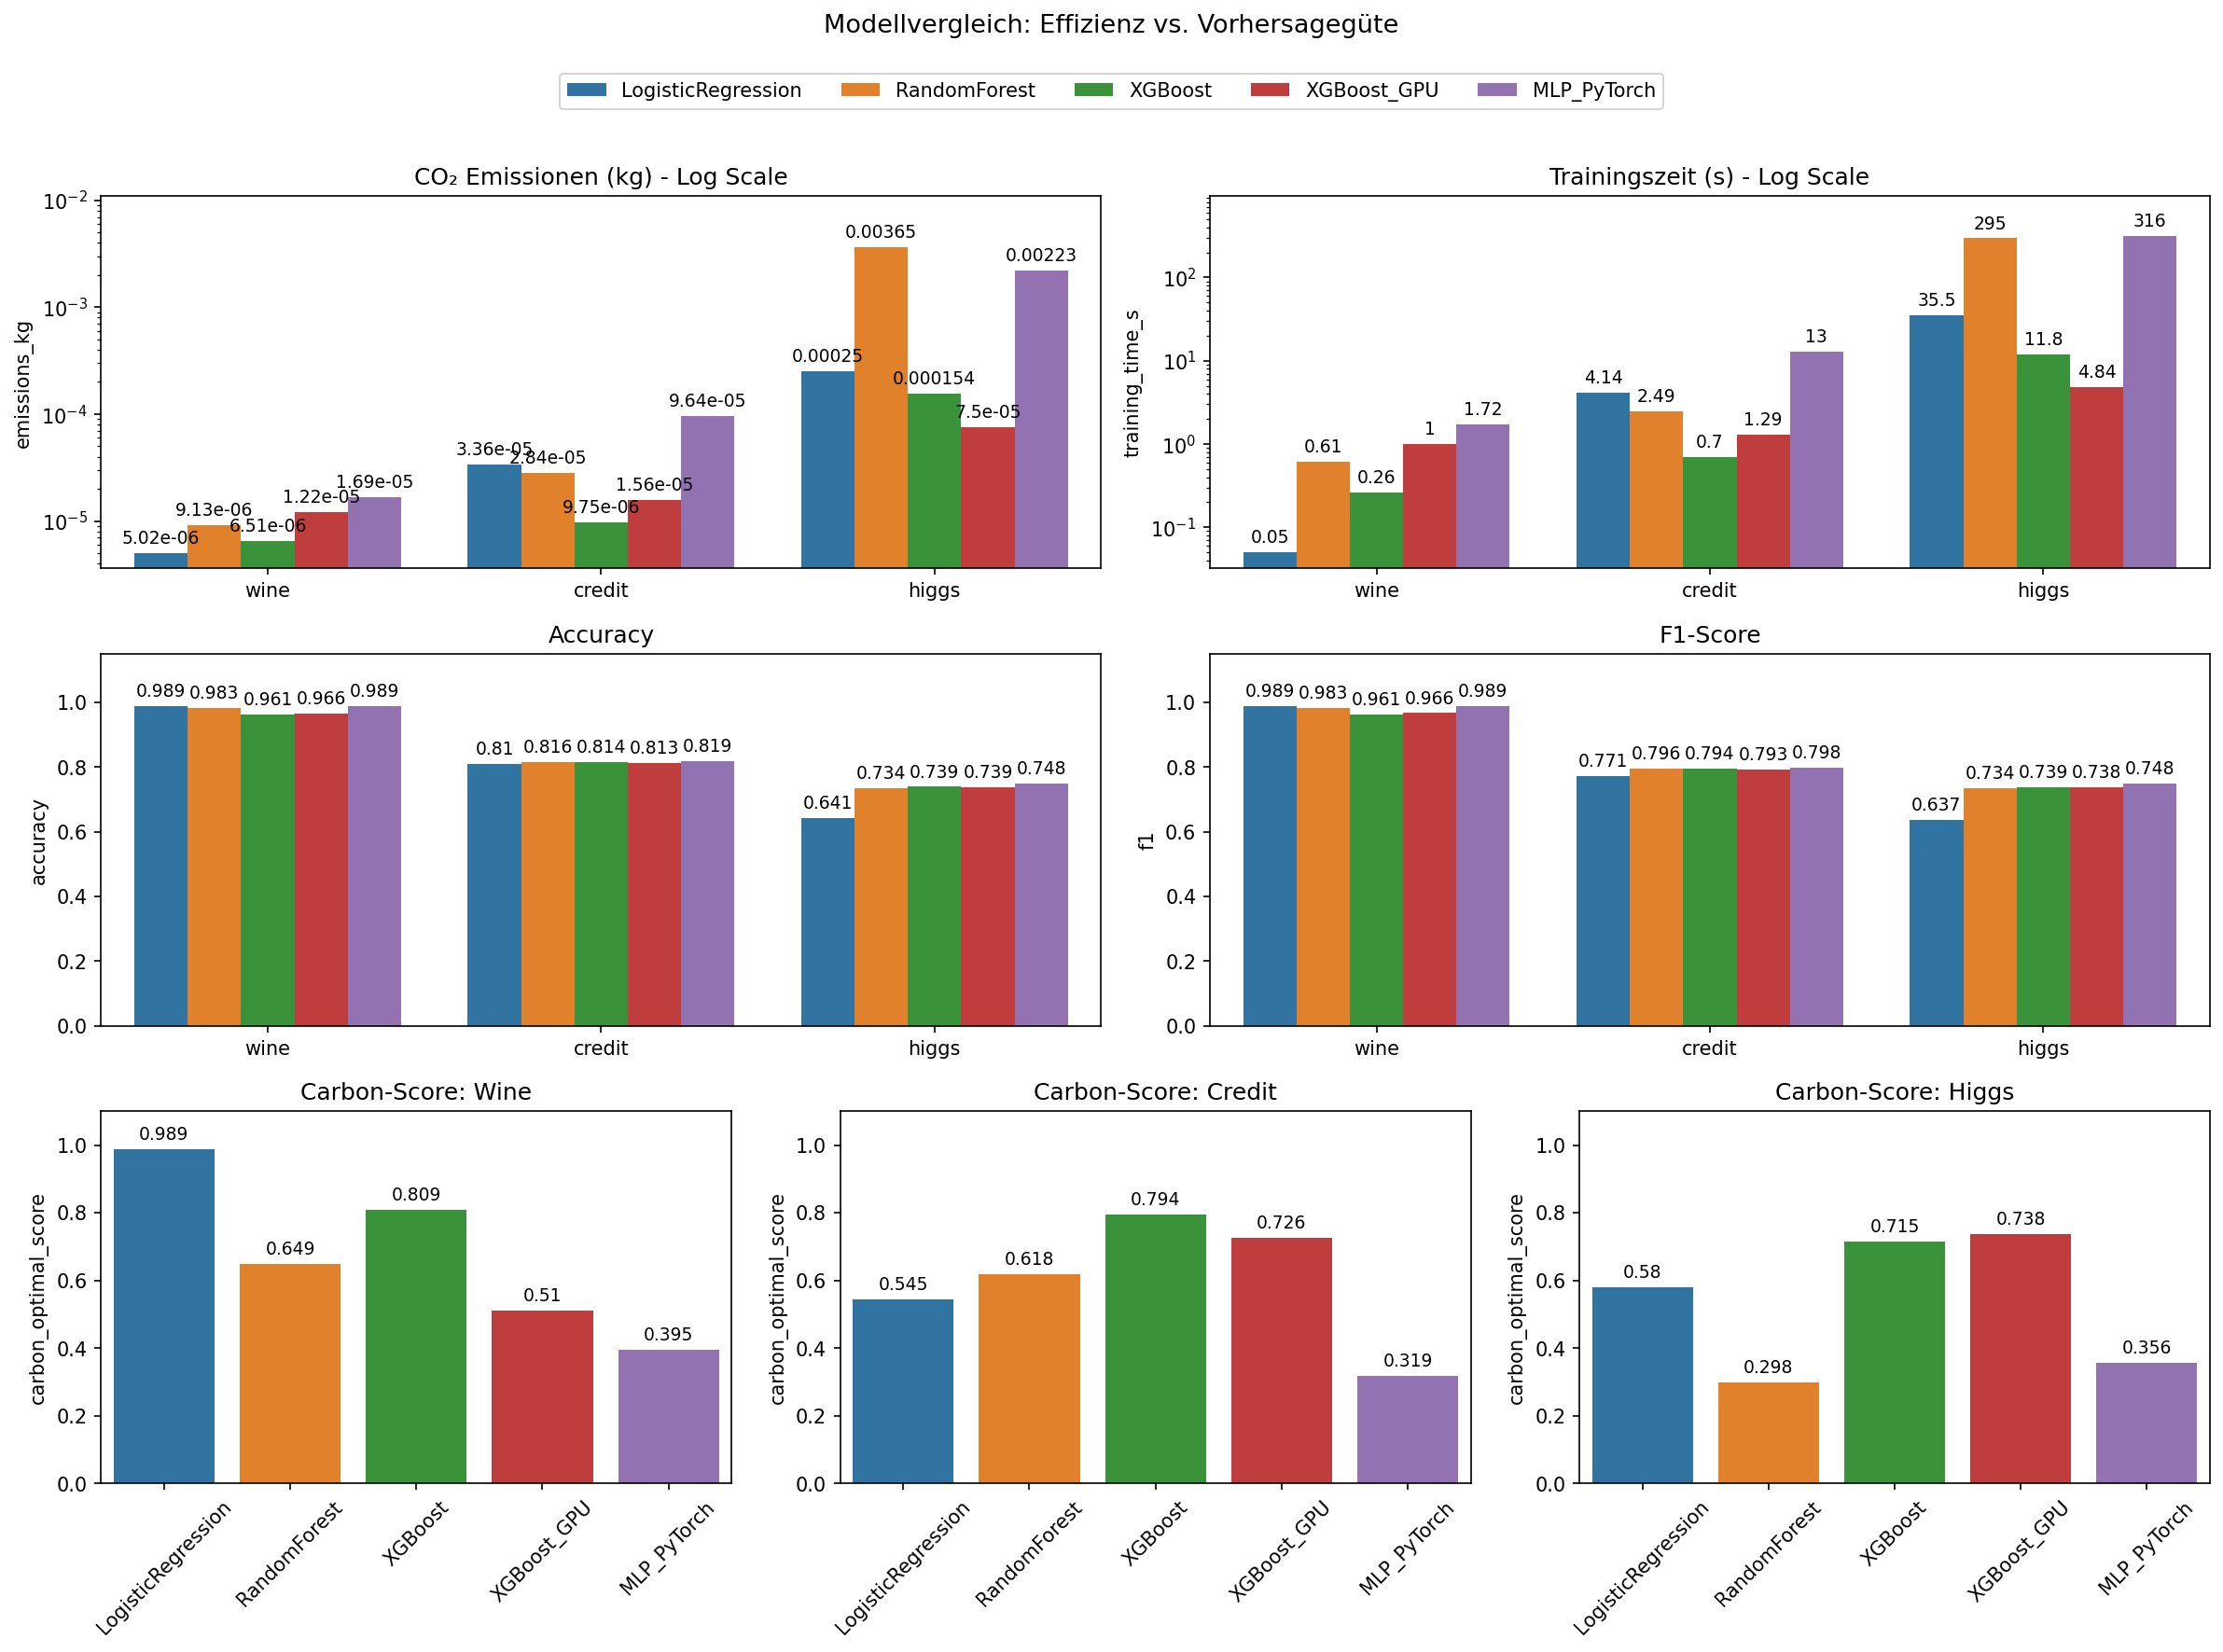
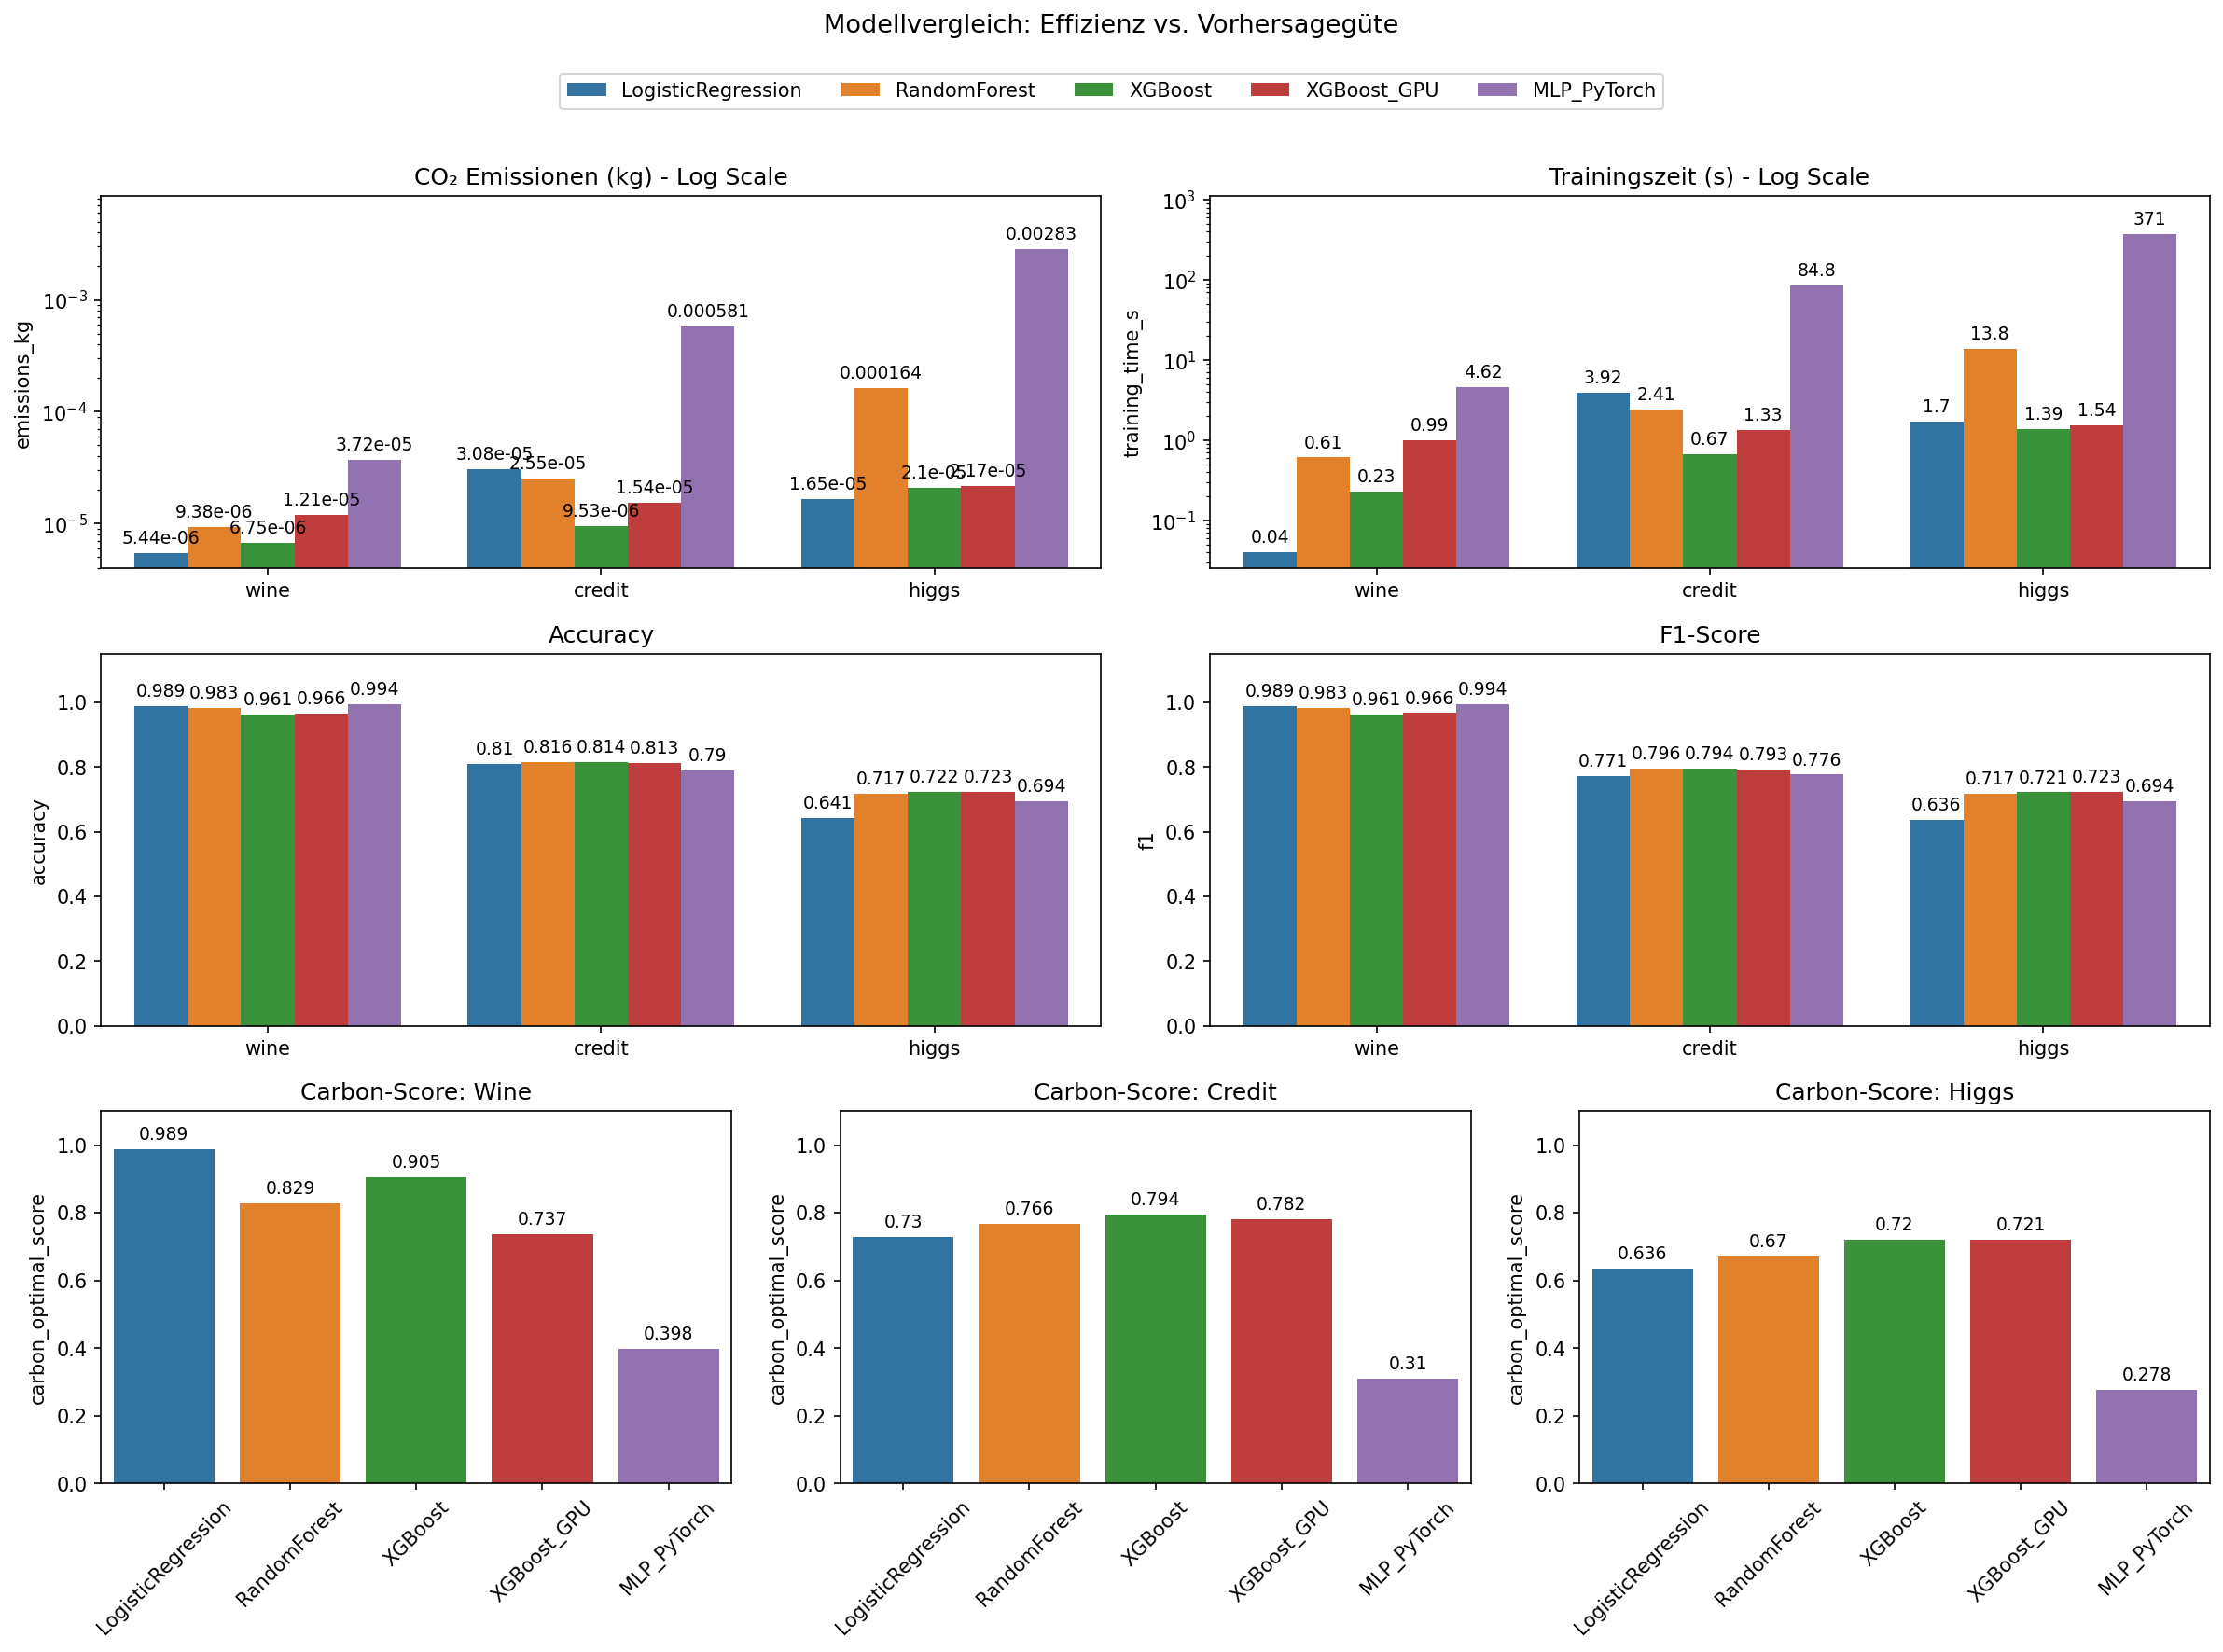
added a mlp architecture from a competetition that got second place. gonna run an overnight test

diff --git a/models/mlp.py b/models/mlp.py
@@ -2,7 +2,9 @@ import os
 import sys
 import time
 import numpy as np
+from skorch.callbacks import EarlyStopping
 import torch
+import torch.nn as nn
 from torch import nn
 from skorch import NeuralNetClassifier
 from sklearn.model_selection import KFold, cross_validate
@@ -20,20 +22,42 @@ DATASET = sys.argv[1] if len(sys.argv) > 1 else 'wine'
 
 cv = KFold(n_splits=CV_FOLDS, shuffle=True, random_state=RANDOM_STATE)
 
+
 class MLPModule(nn.Module):
-    def __init__(self, input_dim, num_classes, hidden_dim=128):
+    def __init__(self, input_dim, num_classes, hidden_dim=256, dropout_rate=0.2):
         super(MLPModule, self).__init__()
+        
         self.network = nn.Sequential(
+            # Layer 1
             nn.Linear(input_dim, hidden_dim),
+            nn.BatchNorm1d(hidden_dim),
             nn.ReLU(),
+            nn.Dropout(dropout_rate),
+            
+            # Layer 2
             nn.Linear(hidden_dim, hidden_dim // 2),
+            nn.BatchNorm1d(hidden_dim // 2),
             nn.ReLU(),
-            nn.Linear(hidden_dim // 2, num_classes)
+            nn.Dropout(dropout_rate),
+            
+            # Layer 3
+            nn.Linear(hidden_dim // 2, hidden_dim // 4),
+            nn.BatchNorm1d(hidden_dim // 4),
+            nn.ReLU(),
+            nn.Dropout(dropout_rate),
+            
+            # Layer 4
+            nn.Linear(hidden_dim // 4, hidden_dim // 8),
+            nn.BatchNorm1d(hidden_dim // 8),
+            nn.ReLU(),
+            nn.Dropout(dropout_rate),
+            
+            # Output Layer
+            nn.Linear(hidden_dim // 8, num_classes)
         )
 
-    def forward(self, X):
+    def forward(self, X, **kwargs):
         return self.network(X)
-
 mlp_config = {
     "wine":   {"num_classes": 3},
     "credit": {"num_classes": 2}, 
@@ -54,16 +78,18 @@ torch.manual_seed(RANDOM_STATE)
 net = NeuralNetClassifier(
     module=MLPModule, 
     module__input_dim=input_dim, 
+    module__hidden_dim=256, # <-- Added the missing comma here
     module__num_classes=mlp_config[DATASET]["num_classes"],
-    max_epochs=20,
-    lr=0.01,
-    iterator_train__batch_size=8192,
+    max_epochs=200,
+    lr=0.001,               # <-- Lowered for the deep + BatchNorm architecture
+    iterator_train__batch_size=8192, # <-- Back to the GPU-optimized size
     iterator_valid__batch_size=8192, 
     criterion=nn.CrossEntropyLoss,
     optimizer=torch.optim.Adam,
     iterator_train__shuffle=True,
     device=device,
-    verbose=0
+    verbose=0,
+    callbacks=[EarlyStopping(patience=3, threshold=0.001)]
 )
 
 pipeline = make_pipeline(StandardScaler(), net)

diff --git a/models/run_models.py b/models/run_models.py
@@ -1,6 +1,8 @@
 import subprocess
 import sys
+import time
 from pathlib import Path
+import requests
 
 DATASETS = ['wine', 'credit', 'higgs']
 
@@ -12,6 +14,8 @@ SCRIPTS = [
     'mlp.py',
 ]
 
+start_time = time.time()
+
 for dataset in DATASETS:
     for script in SCRIPTS:
         print(f"\n>>> {script} | {dataset}")
@@ -21,3 +25,18 @@ for dataset in DATASETS:
         )
         if result.returncode != 0:
             print(f"  FAILED: {script} on {dataset}")
+
+total_time = (time.time() - start_time) / 60
+
+try:
+    requests.post(
+        "https://ntfy.sh/eron_thesis_higgs_run_123", # Deinen Kanalnamen einsetzen!
+        data=f"Alle Skripte sind durchgelaufen! Gesamtdauer: {total_time:.2f} Minuten.".encode(encoding='utf-8'),
+        headers={
+            "Title": "✅ Thesis: Master-Run beendet!",
+            "Priority": "urgent",
+            "Tags": "tada,party_popper"
+        }
+    )
+except Exception as e:
+    print(f"Konnte keine Benachrichtigung senden: {e}")

diff --git a/models/random_forest.py b/models/random_forest.py
@@ -10,6 +10,10 @@ from config import BASE_DIR, config, RANDOM_STATE, CV_FOLDS
 import time
 
 DATASET = sys.argv[1] if len(sys.argv) > 1 else 'wine'
+if DATASET == 'higgs':
+    print("Skipping Random Forest for Higgs dataset.")
+    sys.exit(0)
+    
 cv = KFold(n_splits=CV_FOLDS, shuffle=True, random_state=RANDOM_STATE)
 
 X, y = load_data(DATASET)

diff --git a/config.py b/config.py
@@ -30,7 +30,7 @@ config = {
         "names": None,
         "skiprows": None,
         "delimiter": ",",
-        "nrows": 1000000
+        "nrows": None
     }
 }
 